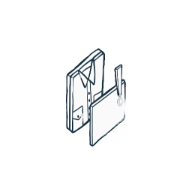
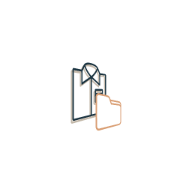
add cookie monster post image

Changed region(s): [[0.3438, 0.25, 0.6562, 0.7812]]

diff --git a/content/posts/Cookie_Monster.md b/content/posts/Cookie_Monster.md
@@ -1,0 +1,34 @@
+---
+title: "Cookie Monster Database"
+date: 2026-04-05
+draft: false
+description: "A database of Crumbl Cookies across stores."
+tags: ["general", "programming", "python"]
+showAuthor: true
+---
+
+My office building is located across the street from a shopping center, and for some reason, the one store that always catches my eye is [Crumbl Cookie](https://crumblcookies.com). When I was first introduced to Crumbl Cookie, I enjoyed their cookies but was more fascinated by their business model. Over the years, I've become disillusioned with their cookies and think they can sometimes taste like sugar-coated cardboard. There is one cookie, though, that still captures my attention and imagination, the [Almost Everything Bagel Cookie](https://crumblcookies.com/profiles/almost-everything-bagel-sandwich-cookie). Most people are appalled at the thought of an Everything Bagel flavored cookie and are even more wary of trying said cookie. Unfortunately, I have not seen this cookie, with its wonderful blending of savory flavor and the sweetness you expect from a cookie, back at any local Crumbl in quite some time. Periodically, while sitting through a meeting, I think about the Almost Everything Bagel Cookie and sometimes even head to the Crumbl website to see if it is one of this week's flavors. For the last 3+ years, the answer has always been no. With so many stores I always wondered if I could create a tool and find if any store carried the Almost Everything Bagel cookie.
+
+During my most recent investigation of the Crumbl website, I did some digging through the structure of the site, as I tend to do. One of the first things that popped into my mind was how organized the website was, with the "Select a Location" page — https://crumblcookies.com/order/carry_out — having all the stores conveniently listed alphabetically. The wheels began to turn, and I wondered how easily all this data could be extracted. When digging a little deeper into the store-level view, I discovered that it too was neatly structured, and each store's weekly menu was found using the following URL format: https://crumblcookies.com/order/carry_out/41ststreet, with the slug ID being at the end of each URL. I realized this data could be scraped, and I could find out whether the Almost Everything Bagel Cookie had completely disappeared or had simply not returned to any of the Crumbl stores near me.
+
+With a basic understanding of how the unique store URLs are structured, I had to decide how to handle creating my Cookie Monster database. I knew web scraping would probably be the route taken, but I did some further testing to see if the website had an API I could interact with (this happens more often than you might think). Unfortunately, it did not, so I started writing the code to web scrape the site. I then had the idea of letting an LLM do this task for me. I use LLMs, mostly Anthropic's Claude, on a daily basis, usually to help clean up and improve my code. Recently, I have seen LLMs capabilities continue to increase to a point where they can write an entire codebase on their own. I thought this Cookie Monster database would be a perfect way to test the model's capabilities, as well as familiarize myself with the technology.
+
+I used Claude Code to complete this task. I started by providing an in-depth prompt that included my goal, my initial research of the URL structures, and a minimal viable product. To my surprise, Claude took my task and ran with it. I provided Claude with a directory to work in, and it asked me to install Playwright to handle the web scraping. Throughout the process it was conversational, Claude would generate code, I would run and test said code, and then apply any changes I wanted to make. From start to finish, this process took a little under one hour, which is far faster than I could have ever completed this task on my own. This goes to show the beauty and power of these models: I could have written this code myself and it might have taken me a full day at best, but by leveraging Claude, the task was completed far quicker.
+
+The code generates a database with two tables: one to track all the stores, and a second to track which flavors are available per store, per week. The code can be found [here](https://github.com/rmcastel/cookie-monster). Although I did make some adjustments to the data structures, I will take no credit for this code, as it was generated by an LLM. The code base is powerful and has many different use cases, from tracking the growth and expansion of Crumbl Cookie franchises (and maybe even  closings of stores) to analyzing which special cookies of the week appear most often throughout the year. But to answer the more important question, what about the Almost Everything Bagel Cookie? I found a single store in Florida that had the Almost Everything Bagel Cookie during the second week I ran this process! The only difference is that it now comes in sandwich form. Maybe Crumbl is using it as a test product, but I remain hopeful and hold out for the return of the Almost Everything Bagel Cookie to a store near me.
+
+```sql
+SELECT *
+FROM   menu_items
+WHERE  lower(cookie_name) LIKE '%everything%'
+```
+<img
+    src="/img/post/Finding_Almost_Everything.png"
+    style="
+      width: 200%;
+      max-width: 1800px;
+      display: block;
+      border-radius: 18px;
+    "
+    loading="lazy"
+/>
